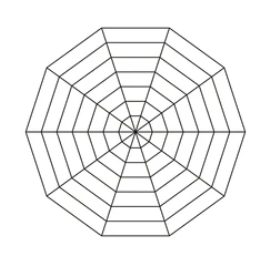
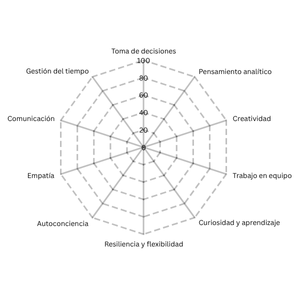
añado imágenes

Changed region(s): [[0.0289, 0.083, 0.9819, 0.9407], [0.6643, 0.8024, 0.7798, 0.8854], [0.6354, 0.8854, 0.6643, 0.913]]

diff --git a/backend/src/services/pdfService.ts b/backend/src/services/pdfService.ts
@@ -2,6 +2,14 @@
 import { createCanvas, loadImage } from 'canvas';
 import { join } from 'path';
 
+async function safeLoadImage(path: string, label: string) {
+  try {
+    return await loadImage(path);
+  } catch (err) {
+    throw new Error(`No se pudo cargar la imagen (${label}): ${path}. Asegúrate de que el archivo es una imagen PNG válida.`);
+  }
+}
+
 export const createPdf = async (data: any) => {
   const { gameData, cvAnalysis, jobPreferences } = data;
 
@@ -9,7 +17,7 @@ export const createPdf = async (data: any) => {
   const ctx = canvas.getContext('2d');
 
   // Cargar fondo
-  const background = await loadImage(join(__dirname, '../assets/background.png'));
+  const background = await safeLoadImage(join(__dirname, '../assets/background.png'), 'background');
   ctx.drawImage(background, 0, 0, canvas.width, canvas.height);
 
   // Estilos básicos
@@ -21,7 +29,8 @@ export const createPdf = async (data: any) => {
 
   // Mapa de habilidades (ejemplo)
   ctx.fillText('Mapa de Habilidades', 50, 100);
-  ctx.drawImage(await loadImage(join(__dirname, '../assets/radar-chart.png')), 50, 150, 300, 300);
+  const radarChart = await safeLoadImage(join(__dirname, '../assets/radarchart.png'), 'radarchart');
+  ctx.drawImage(radarChart, 50, 150, 300, 300);
 
   // Fortalezas más destacadas
   ctx.fillText('Fortalezas más destacadas', 50, 470);

diff --git a/backend/src/controllers/pdfController.ts b/backend/src/controllers/pdfController.ts
@@ -8,8 +8,12 @@ export const generatePDF = async (req: Request, res: Response) => {
     res.setHeader('Content-Type', 'application/pdf');
     res.setHeader('Content-Disposition', 'attachment; filename=report.pdf');
     res.send(pdfBuffer);
-  } catch (error) {
+  } catch (error: any) {
     console.error('Error generating PDF:', error);
-    res.status(500).send('Error generating PDF');
+    if (error.message && error.message.includes('No se pudo cargar la imagen')) {
+      res.status(500).json({ error: error.message });
+    } else {
+      res.status(500).json({ error: 'Error generating PDF' });
+    }
   }
 };